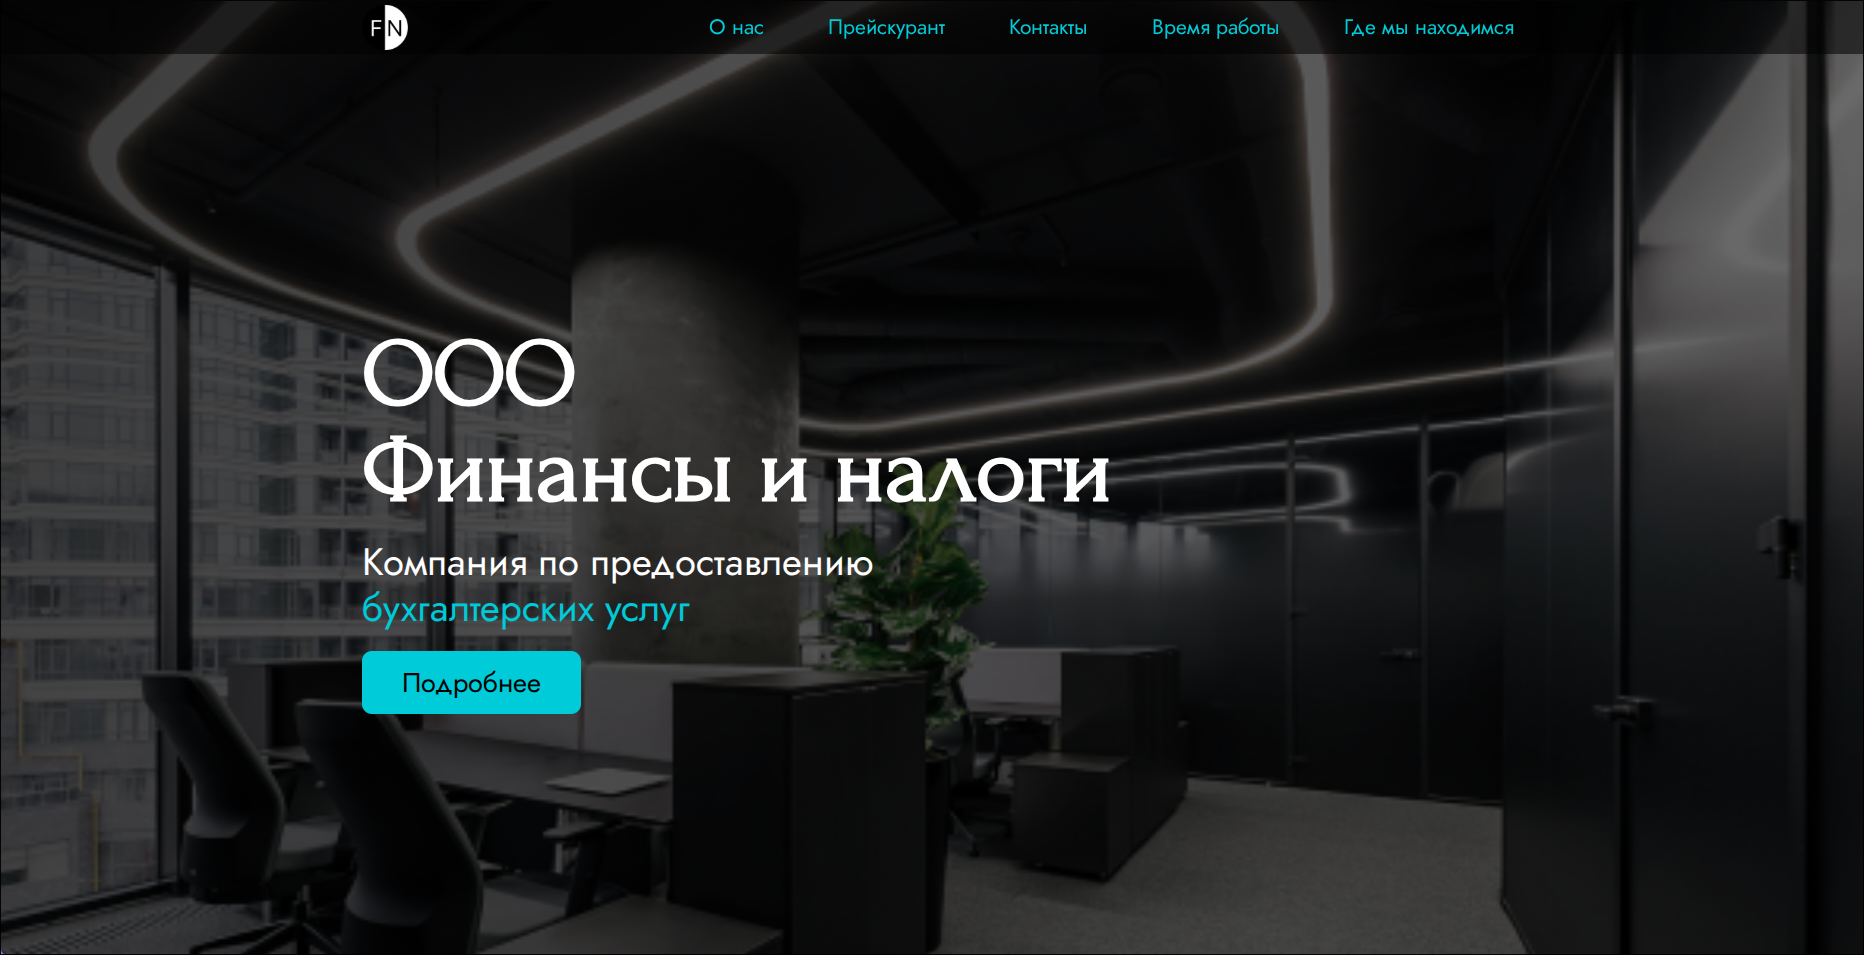
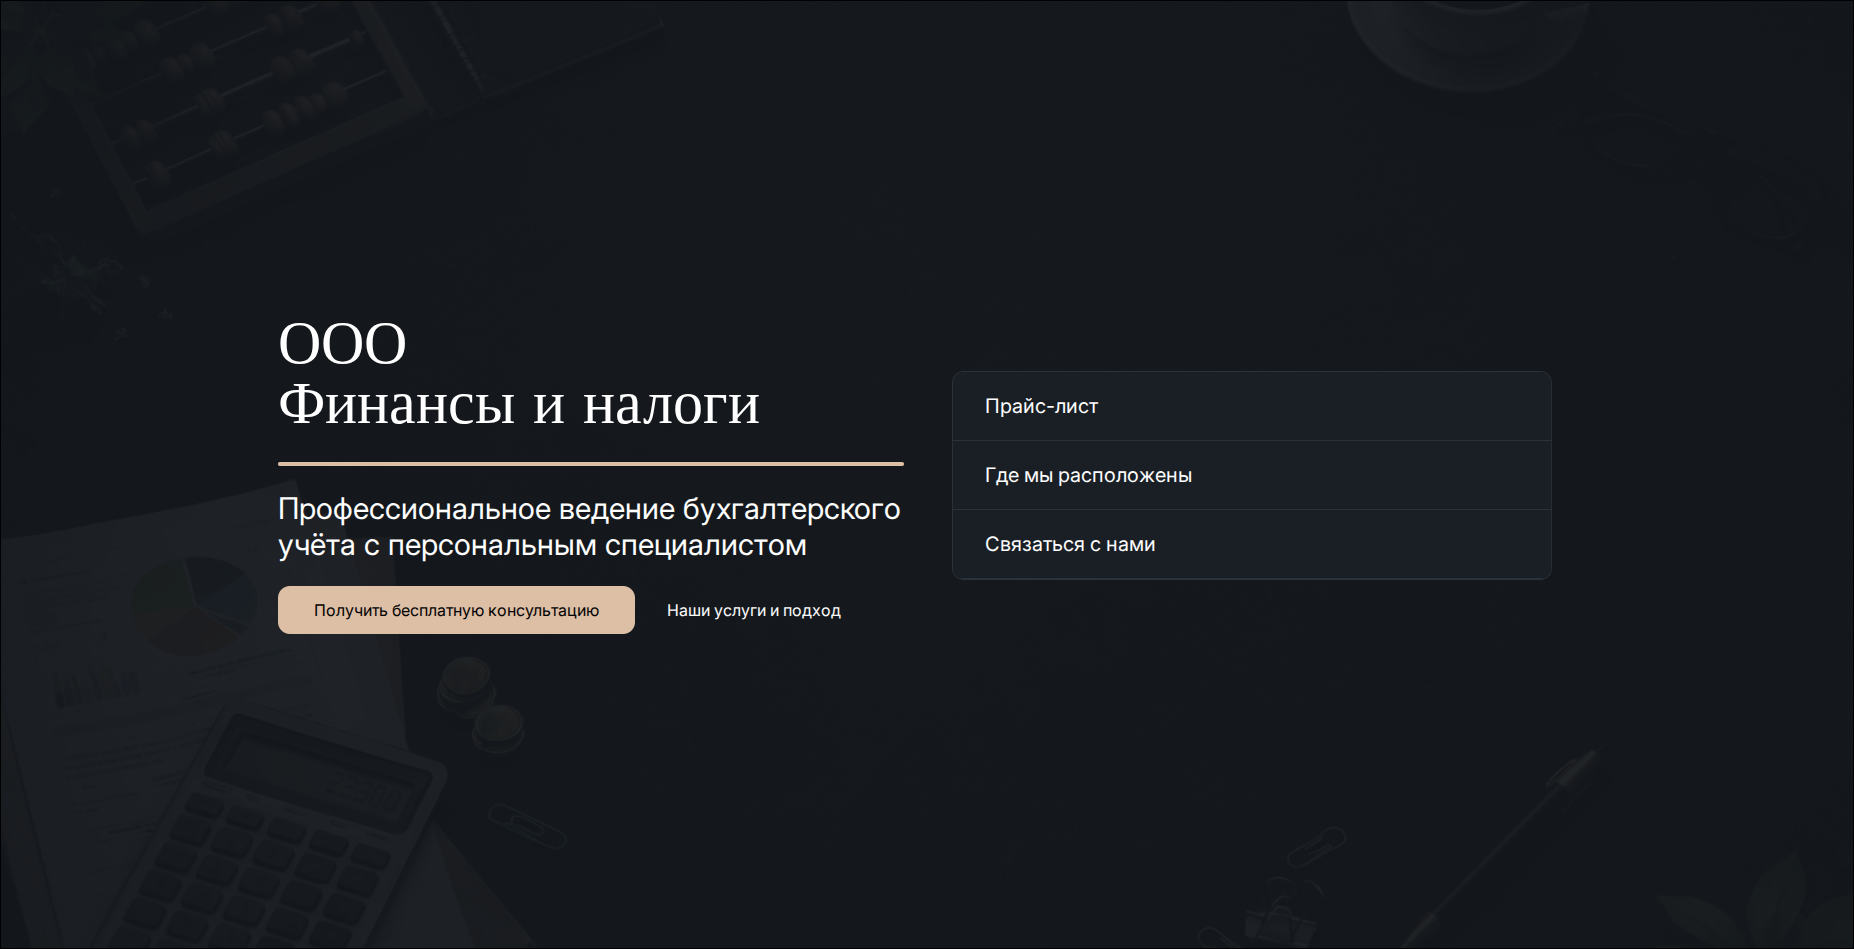
Update (projects.ts, public/projects): Add rubenhair, edit fin-nal

diff --git a/src/data/projects.ts b/src/data/projects.ts
@@ -41,8 +41,8 @@ export const projects: ProjectsType = [
     "title": "Fin-nal",
     "description": "Сайт-лендинг для компании ООО 'Финансы и налоги'",
     "type": "Заказ (Лендинг)",
-    "using": ["devicon-javascript-plain"],
-    "filters": ["Vanilla JS", "JavaScript", "Vanilla CSS"],
+    "using": ["devicon-javascript-plain", "devicon-tailwindcss-plain"],
+    "filters": ["Vanilla JS", "JavaScript", "Tailwind CSS"],
     "links": { "Сайт": "https://fin-nal.by" }
   },
   {
@@ -196,5 +196,17 @@ export const projects: ProjectsType = [
     "links": {
       "Сайт": "https://github.com/thisSasha/digiqole-newspaper_copy",
     }
+  },
+  {
+    "img": "/projects/rubenhair/preview.png",
+    "title": "Rubenhair Copy",
+    "description": "Копия с Wordpress на html",
+    "type": "Заказ (Копия сайта)",
+    "using": ["devicon-tailwindcss-plain", "devicon-javascript-plain"],
+    "filters": ["Javascript", "Vanilla JS", "Tailwind CSS"],
+    "links": { 
+      "Сайт": "https://github.com/thisSasha/rubenhair_copy",
+      "Оригинал": "https://rubenhair.eu"  
+     }
   },
 ]
